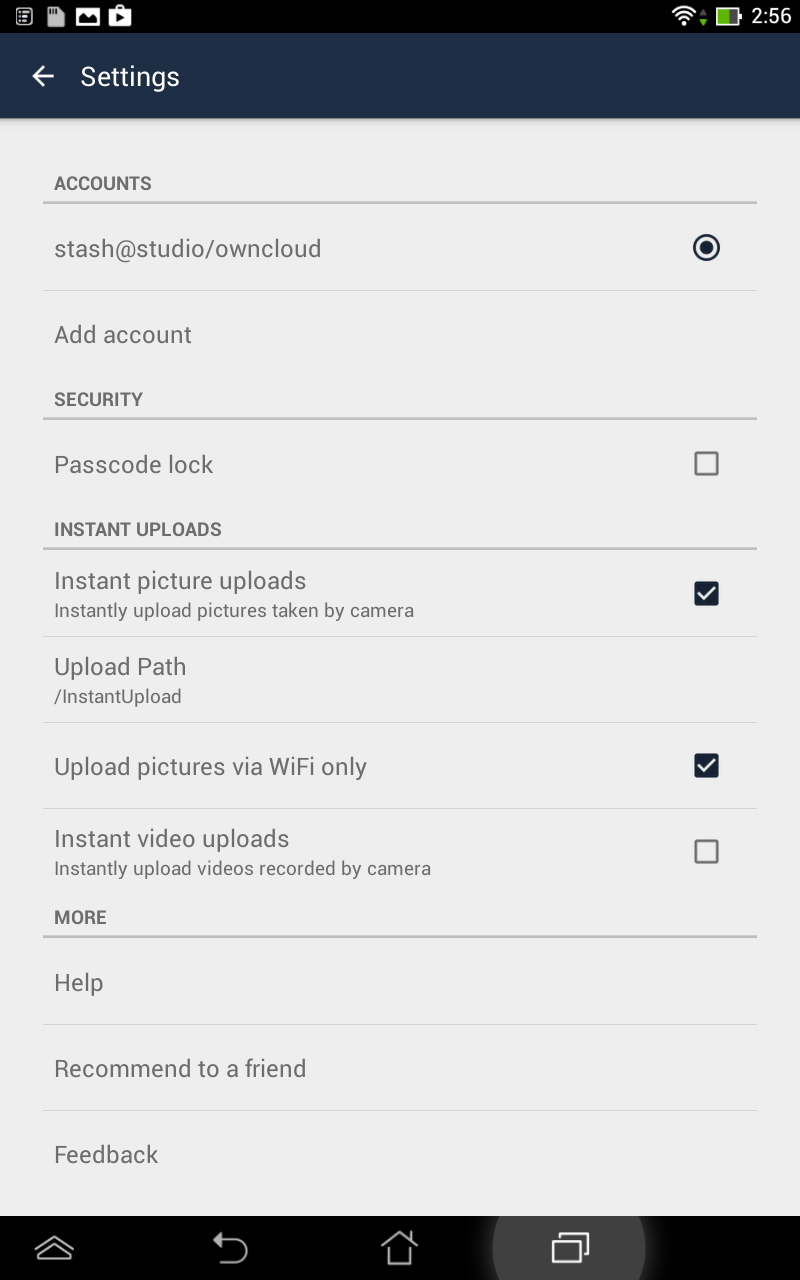
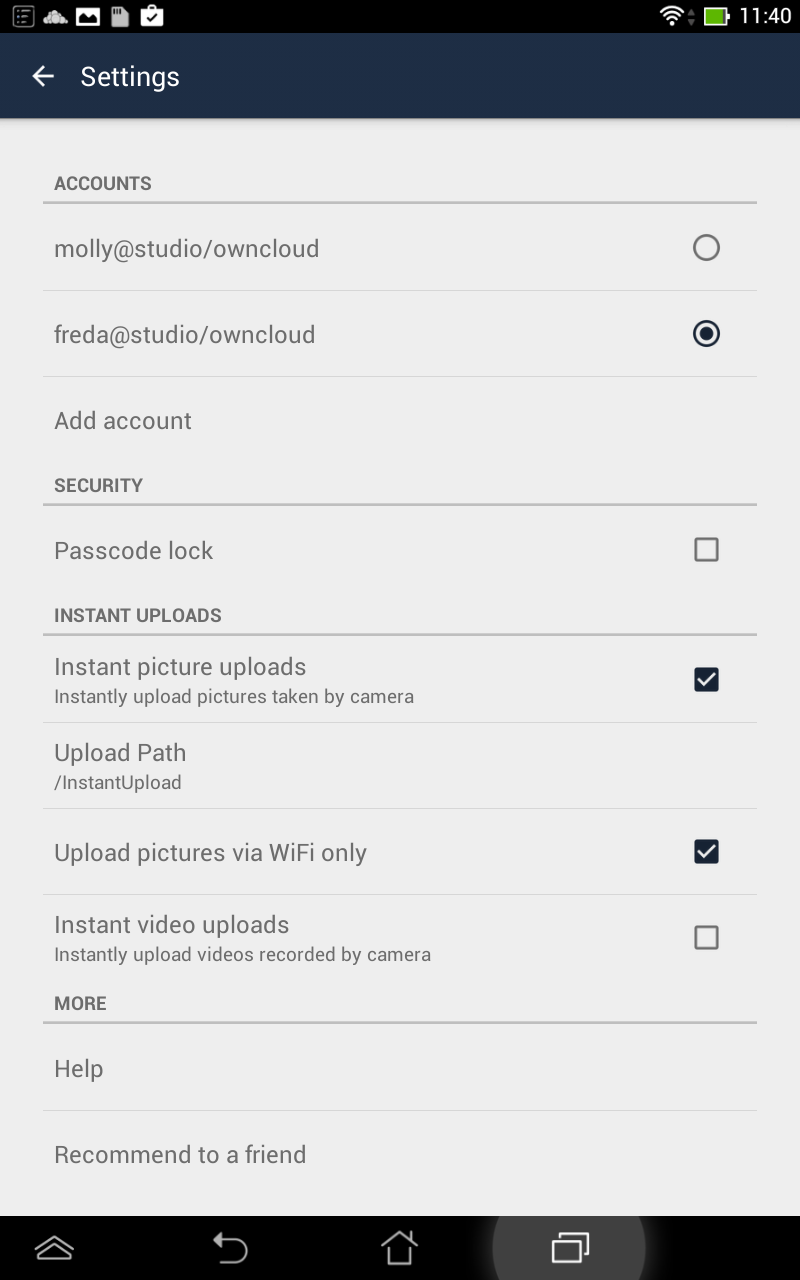
update for 1.9 release w expanded sharing

diff --git a/user_manual/android_app.rst b/user_manual/android_app.rst
@@ -9,6 +9,8 @@ some advantages over the Web interface:
 
 * A simplified interface that fits nicely on a tablet or smartphone
 * Automatic synchronization of your files
+* Share files with other ownCloud users and groups, and create public share 
+  links
 * Instant uploads of photos or videos recorded on your Android device
 * Easily add files from your device to ownCloud
 * Two-factor authentication
@@ -69,9 +71,8 @@ shortcut to your files, and contains the Settings button.
    :alt: Top-left menu.
 
 Click the overflow button at the top right (that's the one with three vertical 
-dots, and that is really what it is called) to open a user menu. ``Refresh 
-account`` syncs your files, and ``Sort`` gives you the option to sort your files 
-by date, or alphabetically.
+dots) to open a user menu. ``Refresh account`` syncs your files, and ``Sort`` 
+gives you the option to sort your files by date, or alphabetically.
 
 .. figure:: images/android-6.png
    :alt: Top-right menu.
@@ -86,34 +87,39 @@ your music player, or from your Android filesystem.
    :alt: File upload dialogue.
 
 All files (that you have permission to access) on your ownCloud server are 
-displayed in your Android app, but are not downloaded until you click on them to 
-download them. Downloaded files are marked with a green arrow.
+displayed in your Android app, but are not downloaded until you click on them. 
+Downloaded files are marked with a green arrow.
 
 .. figure:: images/android-8.png
    :scale: 75%
    :alt: Downloaded files are marked with green arrows.
 
-Download and preview a file with a short press on the filename.  Then a short 
-press on the overflow button opens a menu with 
-options for managing your file.
+Download and view a file with a short press on the filename.  Then a short 
+press on the overflow button opens a menu with options for managing your file.
 
 .. figure:: images/android-9.png
    :scale: 75%
    :alt: File management options. Betsy Ross says "Don't believe everything you 
-   read on the Internet."
+    read on the Internet."
    
-When you are on your mail Files page, a long press on any folder displays a 
-list of options: Share Link, Download, Rename, Move, Copy, and Remove.
+When you are on your main Files page, a long press on any file or folder 
+displays a list of options: Share, Open With, Synchronize, Rename, Move, Copy, 
+Remove, Send, Favorite, and Details.
 
 .. figure:: images/android-11.png
    :scale: 75%
    :alt: Folder and file management options.
    
-When you enter a folder, a long press on any file or folder has these 
-additional options: Open With, Refresh File, Send, Favorite, and Details. The 
-Download option appears on files that have not been downloaded to your Android 
-device.  
+Click Share to share files. You can share with other ownCloud users, and create 
+public share links. If your ownCloud server administrator has enabled username 
+auto-completion, when you start typing user or group names they will 
+auto-complete. After you have shared files, click the Share button to see who 
+you have shared with, and to remove shares.
 
+.. figure:: images/android-12.png
+   :scale: 75%
+   :alt: Sharing files.
+   
 Settings
 --------
 
@@ -134,5 +140,5 @@ uploaded to this directory. You also have the option to choose any other
 existing directory, or to create a new one. Another nice option is Upload 
 Pictures/Video via WiFi Only, to conserve your mobile data usage.
 
-The bottom section of the Settings screen has links to help and the 
-app's version number.
+The bottom section of the Settings screen has links to Help, Recommend to a 
+friend, Feedback, and the version number.
